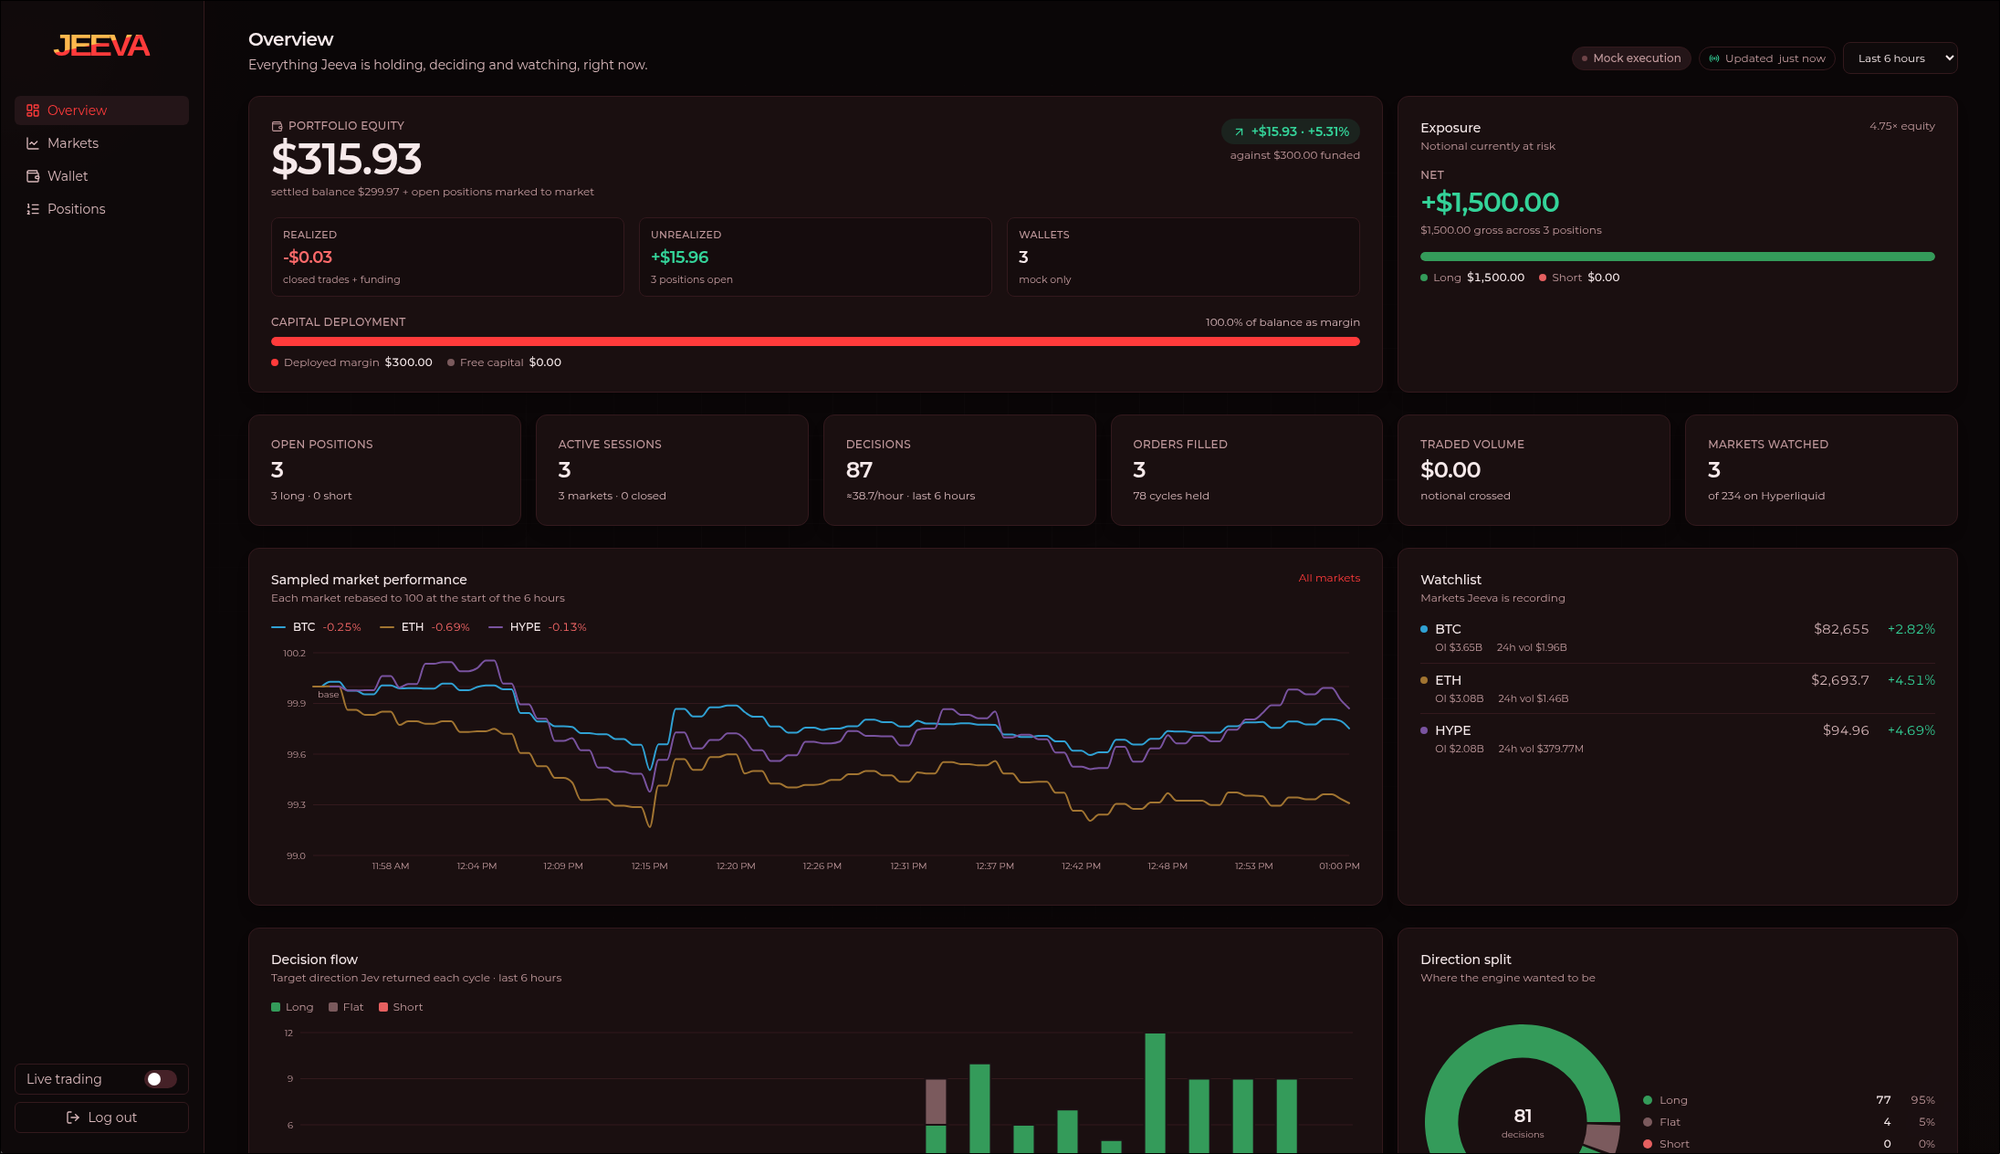
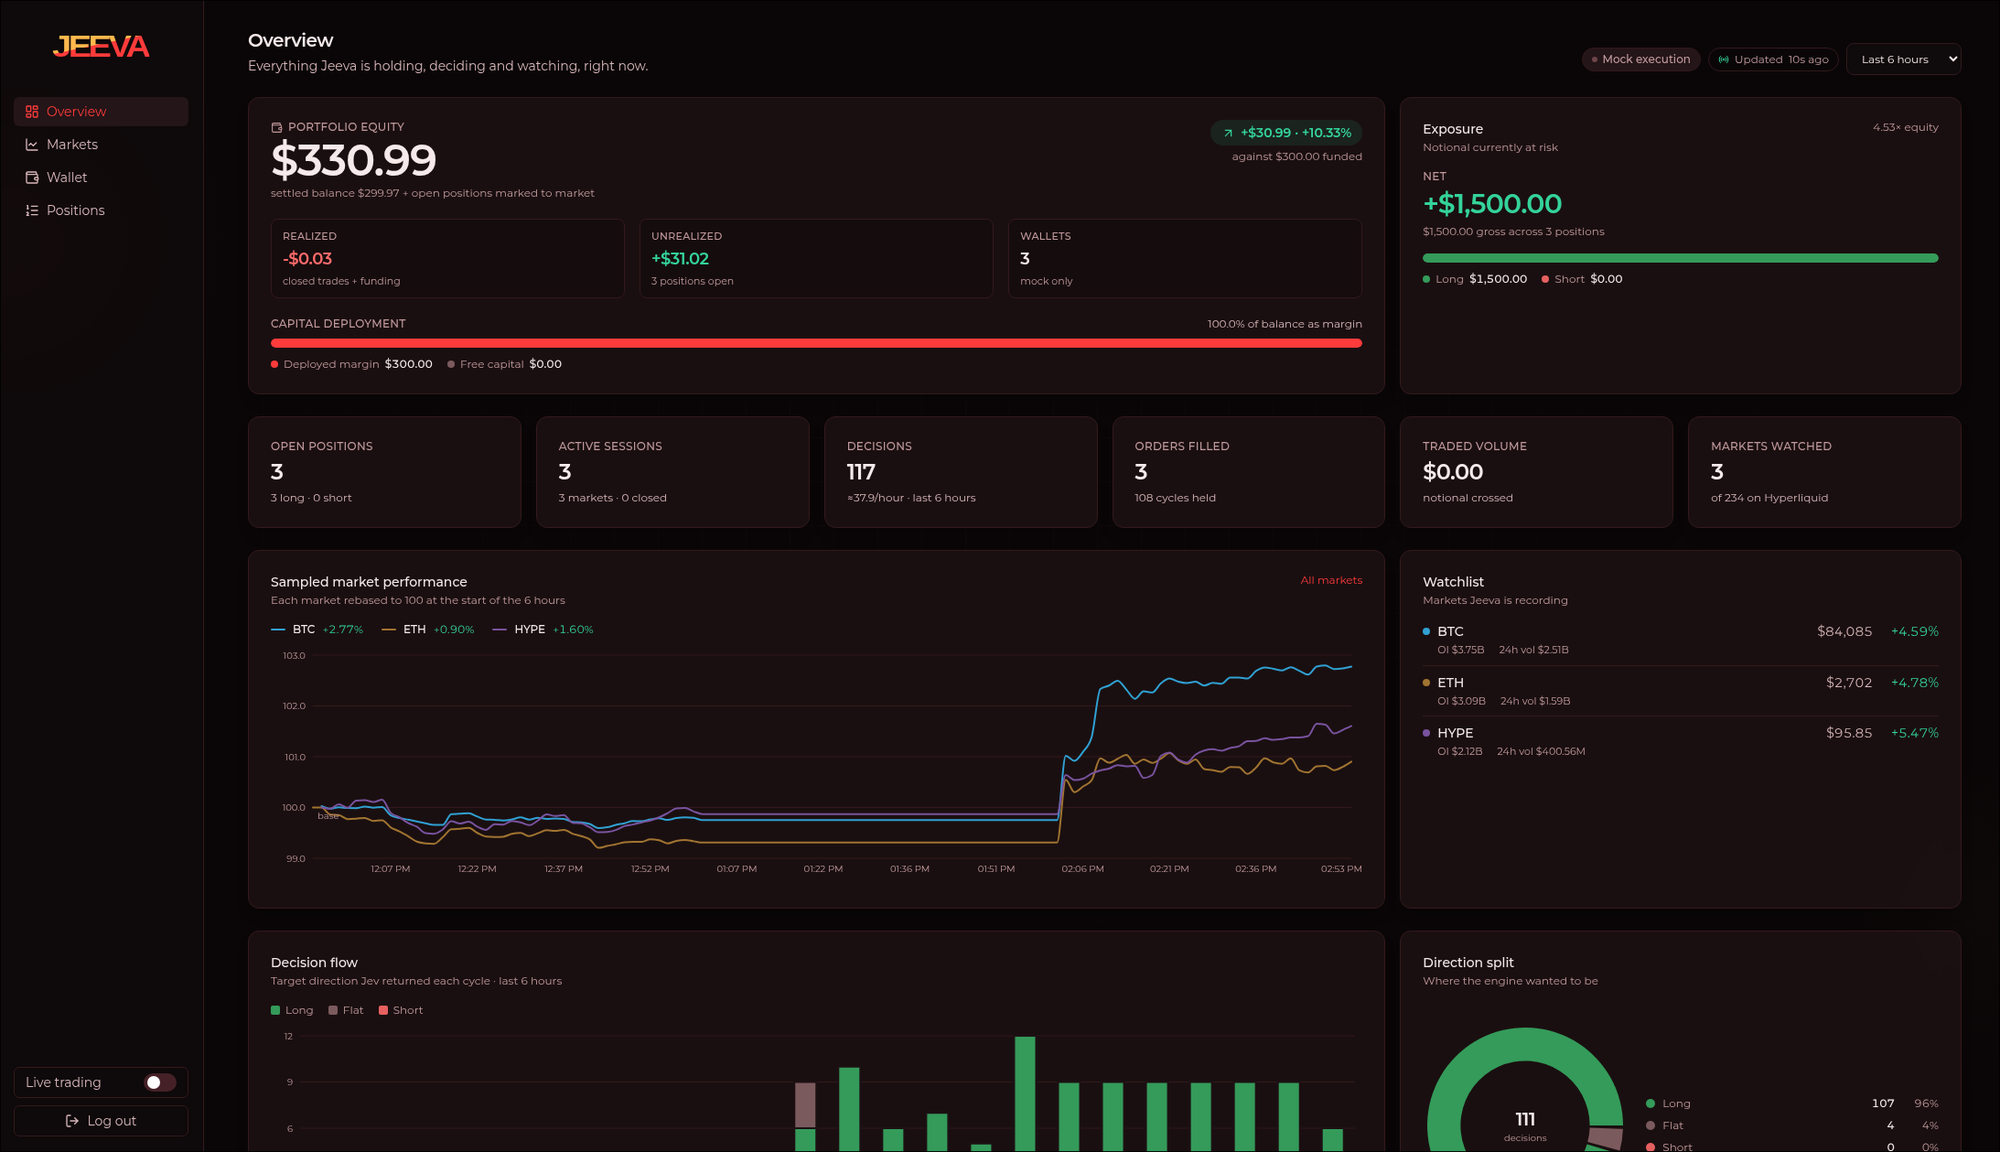
feat: surface demo mode status across api and frontend
- Add demoMode flag to the /health response so clients can detect the deployment mode
- Evaluate isDemoMode() per request in engine mode routes instead of caching at router creation, so env changes take effect without a restart
- Fetch demo mode on the login page and show demo credentials only when the deployment is in demo mode
- Add API test coverage for the demoMode health flag under DEMO_MODE=true
- Refresh dashboard overview screenshot

diff --git a/frontend/src/app/login/page.tsx b/frontend/src/app/login/page.tsx
@@ -1,8 +1,8 @@
 "use client";
 
-import { useState, type FormEvent } from "react";
+import { useEffect, useState, type FormEvent } from "react";
 import { useRouter } from "next/navigation";
-import { login } from "@/lib/api";
+import { fetchDemoMode, login } from "@/lib/api";
 import { Button, Card, Input, Label } from "@/components/ui";
 
 export default function LoginPage() {
@@ -11,6 +11,11 @@ export default function LoginPage() {
   const [password, setPassword] = useState("");
   const [error, setError] = useState<string | null>(null);
   const [submitting, setSubmitting] = useState(false);
+  const [demoMode, setDemoMode] = useState(false);
+
+  useEffect(() => {
+    fetchDemoMode().then(setDemoMode);
+  }, []);
 
   async function handleSubmit(e: FormEvent) {
     e.preventDefault();
@@ -58,10 +63,12 @@ export default function LoginPage() {
           <Button type="submit" disabled={submitting}>
             {submitting ? "Signing in..." : "Sign in"}
           </Button>
-          <p className="text-center text-sm text-subtext-1">
-            Demo credentials: <span className="font-medium">admin</span> /{" "}
-            <span className="font-medium">password</span>
-          </p>
+          {demoMode && (
+            <p className="text-center text-sm text-subtext-1">
+              Demo credentials: <span className="font-medium">admin</span> /{" "}
+              <span className="font-medium">password</span>
+            </p>
+          )}
         </form>
       </Card>
     </main>

diff --git a/api/src/app.ts b/api/src/app.ts
@@ -10,6 +10,7 @@ import {
 } from "./hyperliquid/client.js";
 import { createDecisionMakersRouter } from "./decisionMakers/routes.js";
 import { createDecisionsRouter } from "./decisions/routes.js";
+import { isDemoMode } from "./engineMode/demoMode.js";
 import { createEngineModeRouter } from "./engineMode/routes.js";
 import { createFundingRouter } from "./funding/routes.js";
 import { createPerpHealthRouter } from "./health/routes.js";
@@ -51,7 +52,7 @@ export function createApp(deps: AppDeps = {}): Express {
   app.use(cookieParser());
 
   app.get("/health", (_req, res) => {
-    res.status(200).json({ status: "ok" });
+    res.status(200).json({ status: "ok", demoMode: isDemoMode() });
   });
 
   app.use("/auth", authRouter);

diff --git a/api/src/engineMode/routes.ts b/api/src/engineMode/routes.ts
@@ -45,11 +45,9 @@ export function createEngineModeRouter(db: Db, pgPool: Pool): Router {
   const router = Router();
   router.use(requireAuth);
 
-  const demoMode = isDemoMode();
-
   router.get("/", async (_req, res) => {
     const mode = await getEngineMode(db);
-    res.status(200).json({ mode, demoMode });
+    res.status(200).json({ mode, demoMode: isDemoMode() });
   });
 
   router.put("/", async (req, res) => {
@@ -60,7 +58,7 @@ export function createEngineModeRouter(db: Db, pgPool: Pool): Router {
       return;
     }
 
-    if (mode === "live" && demoMode) {
+    if (mode === "live" && isDemoMode()) {
       res.status(403).json({ error: "live trading is disabled on this deployment" });
       return;
     }

diff --git a/frontend/src/lib/api.ts b/frontend/src/lib/api.ts
@@ -52,6 +52,14 @@ export async function checkSession(): Promise<boolean> {
   return res.ok;
 }
 
+/** True when the deployment runs with DEMO_MODE=true. */
+export async function fetchDemoMode(): Promise<boolean> {
+  const res = await fetch(`${await loadApiUrl()}/health`);
+  if (!res.ok) return false;
+  const body: { demoMode?: unknown } = await res.json();
+  return body.demoMode === true;
+}
+
 // The engine's DecisionMaker implementation for this PERP: `random`
 // (synthetic, no network), `typesafe` (calls TypeSafe's Jev API
 // directly), or `openrouter` (calls Jev via OpenRouter).

diff --git a/api/src/app.test.ts b/api/src/app.test.ts
@@ -7,6 +7,14 @@ describe("GET /health", () => {
     const app = createApp();
     const res = await request(app).get("/health");
     expect(res.status).toBe(200);
-    expect(res.body).toEqual({ status: "ok" });
+    expect(res.body).toEqual({ status: "ok", demoMode: false });
+  });
+
+  it("reports demoMode when DEMO_MODE=true", async () => {
+    process.env.DEMO_MODE = "true";
+    const app = createApp();
+    const res = await request(app).get("/health");
+    delete process.env.DEMO_MODE;
+    expect(res.body).toEqual({ status: "ok", demoMode: true });
   });
 });
